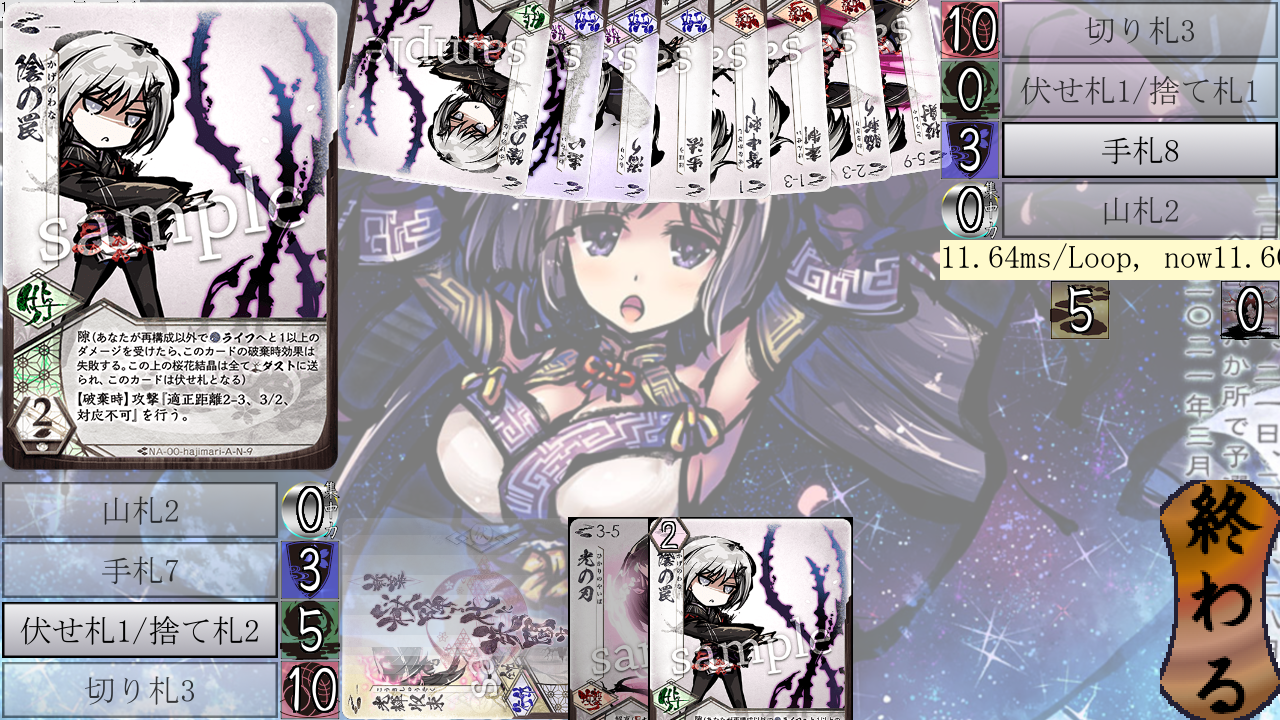
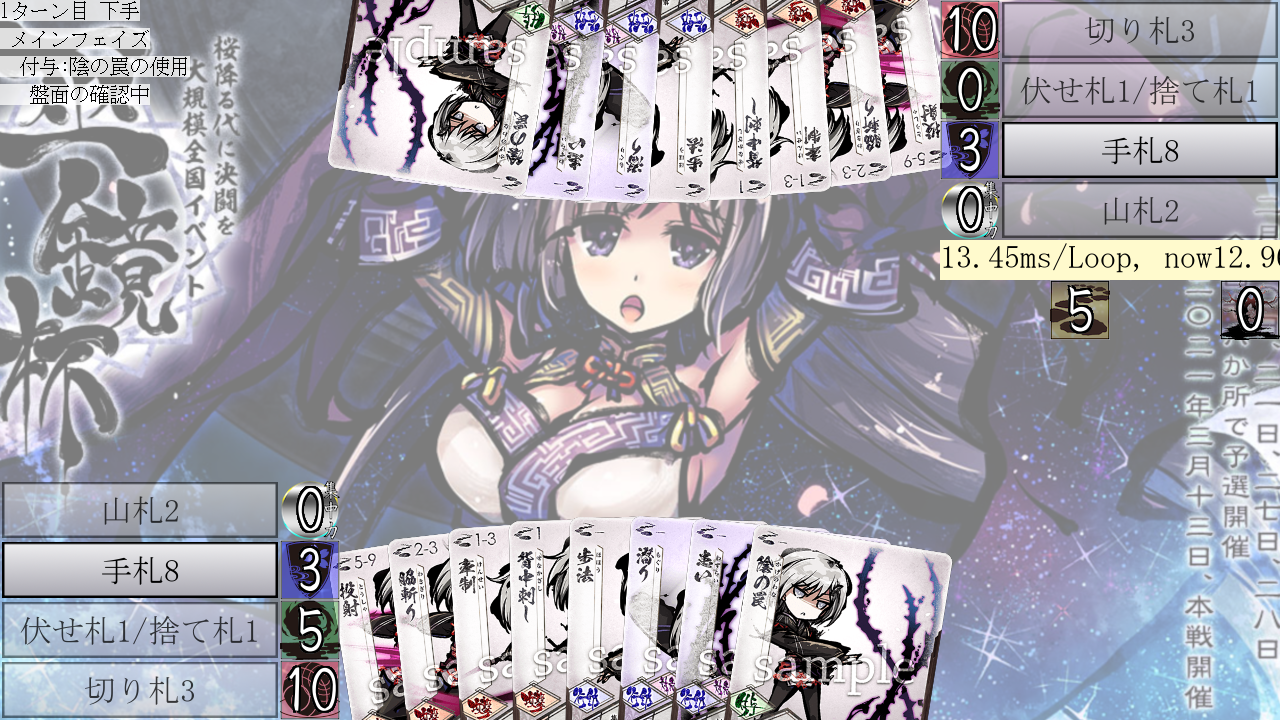
J277:PlayHuyoのレイヤーを作成して到着

diff --git a/mod/ol/play_huyo.py b/mod/ol/play_huyo.py
@@ -1,0 +1,43 @@
+#                 20                  40                  60                 79
+from pygame.math import Vector2
+from typing import Any
+
+from mod.const import screen, IMG_GRAY_LAYER, compatible_with, WX, WY, TC_SUTEHUDA, side_name
+from mod.huda import Huda
+from mod.ol.view_banmen import view_youso
+from mod.card import Card
+from mod.taba import Taba
+from mod.popup_message import popup_message
+from mod.moderator import moderator
+from mod.delivery import Delivery
+
+SCALE_SIZE = 180
+
+class PlayHuyo():
+    def __init__(self, card: Card, delivery: Delivery, hoyuusya: int, huda: Any | None) -> None:
+        self.card = card
+        self.delivery = delivery
+        self.hoyuusya = hoyuusya
+        self.source_huda = huda if isinstance(huda, Huda) else None
+        self.name = f"付与:{card.name}の使用"
+        self.inject_func = delivery.inject_view
+
+    def elapse(self) -> None:
+        screen.blit(source=self.card.img, dest=-Vector2(self.card.img.get_size())/2+Vector2(WX, WY)/2)
+        screen.blit(source=IMG_GRAY_LAYER, dest=[0, 0])
+
+    def get_hover(self) -> Any | None:
+        return view_youso
+
+    def open(self) -> None:
+        ...
+
+    def close(self) -> int:
+        popup_message.add("解決した！？")
+        self.card.close(hoyuusya=self.hoyuusya)
+        return 0
+
+    def moderate(self, stat: Any) -> None:
+        ...
+
+# compatible_with(, OverLayer)

diff --git a/mod/card.py b/mod/card.py
@@ -60,14 +60,9 @@ class Card():
             from mod.ol.play_kougeki import PlayKougeki
             moderator.append(over_layer=PlayKougeki(kougeki=self, delivery=delivery, hoyuusya=hoyuusya, huda=huda))
         else:
-            popup_message.add("メインタイプの解決がまだ未実装だね")
-            from mod.huda import Huda
-            if isinstance(huda, Huda):
-                popup_message.add("付与を捨てるよ")
-                huda.usage = USAGE_DEPLOYED
-                huda.osame = self.osame(delivery, hoyuusya)
-                huda.discard()
-            self.close(hoyuusya=hoyuusya)
+            popup_message.add("付与用のOverLayerを開くよ")
+            from mod.ol.play_huyo import PlayHuyo
+            moderator.append(over_layer=PlayHuyo(card=self, delivery=delivery, hoyuusya=hoyuusya, huda=huda))
 
     def is_full(self, delivery: Delivery, hoyuusya: int) -> bool:
         return delivery.ouka_count(hoyuusya=hoyuusya, is_mine=True, utuwa_code=UC_FLAIR) >= self.flair(delivery, hoyuusya)

diff --git a/koukas/n_1.py b/koukas/n_1.py
@@ -55,7 +55,7 @@ n_8 = Card(img=pygame.image.load("cards/na_00_hajimari_a_n_8.png"), name="患い
            kouka=_kouka_n_8, taiou=True, taiounize=_taiounize_n_8)
 
 n_9 = Card(img=pygame.image.load("cards/na_00_hajimari_a_n_9.png"), name="陰の罠", cond=auto_di, type=CT_HUYO,
-           osame=int_di(2))
+           osame=int_di(2), suki=auto_di)
 
 s_1 = Card(img=pygame.image.load("cards/na_00_hajimari_a_s_1.png"), name="数多ノ刃", cond=auto_di, type=CT_KOUGEKI,
            aura_damage=int_di(4), life_damage=int_di(3), maai_list=dima_di(1, 2), kirihuda=True, flair=int_di(5))
